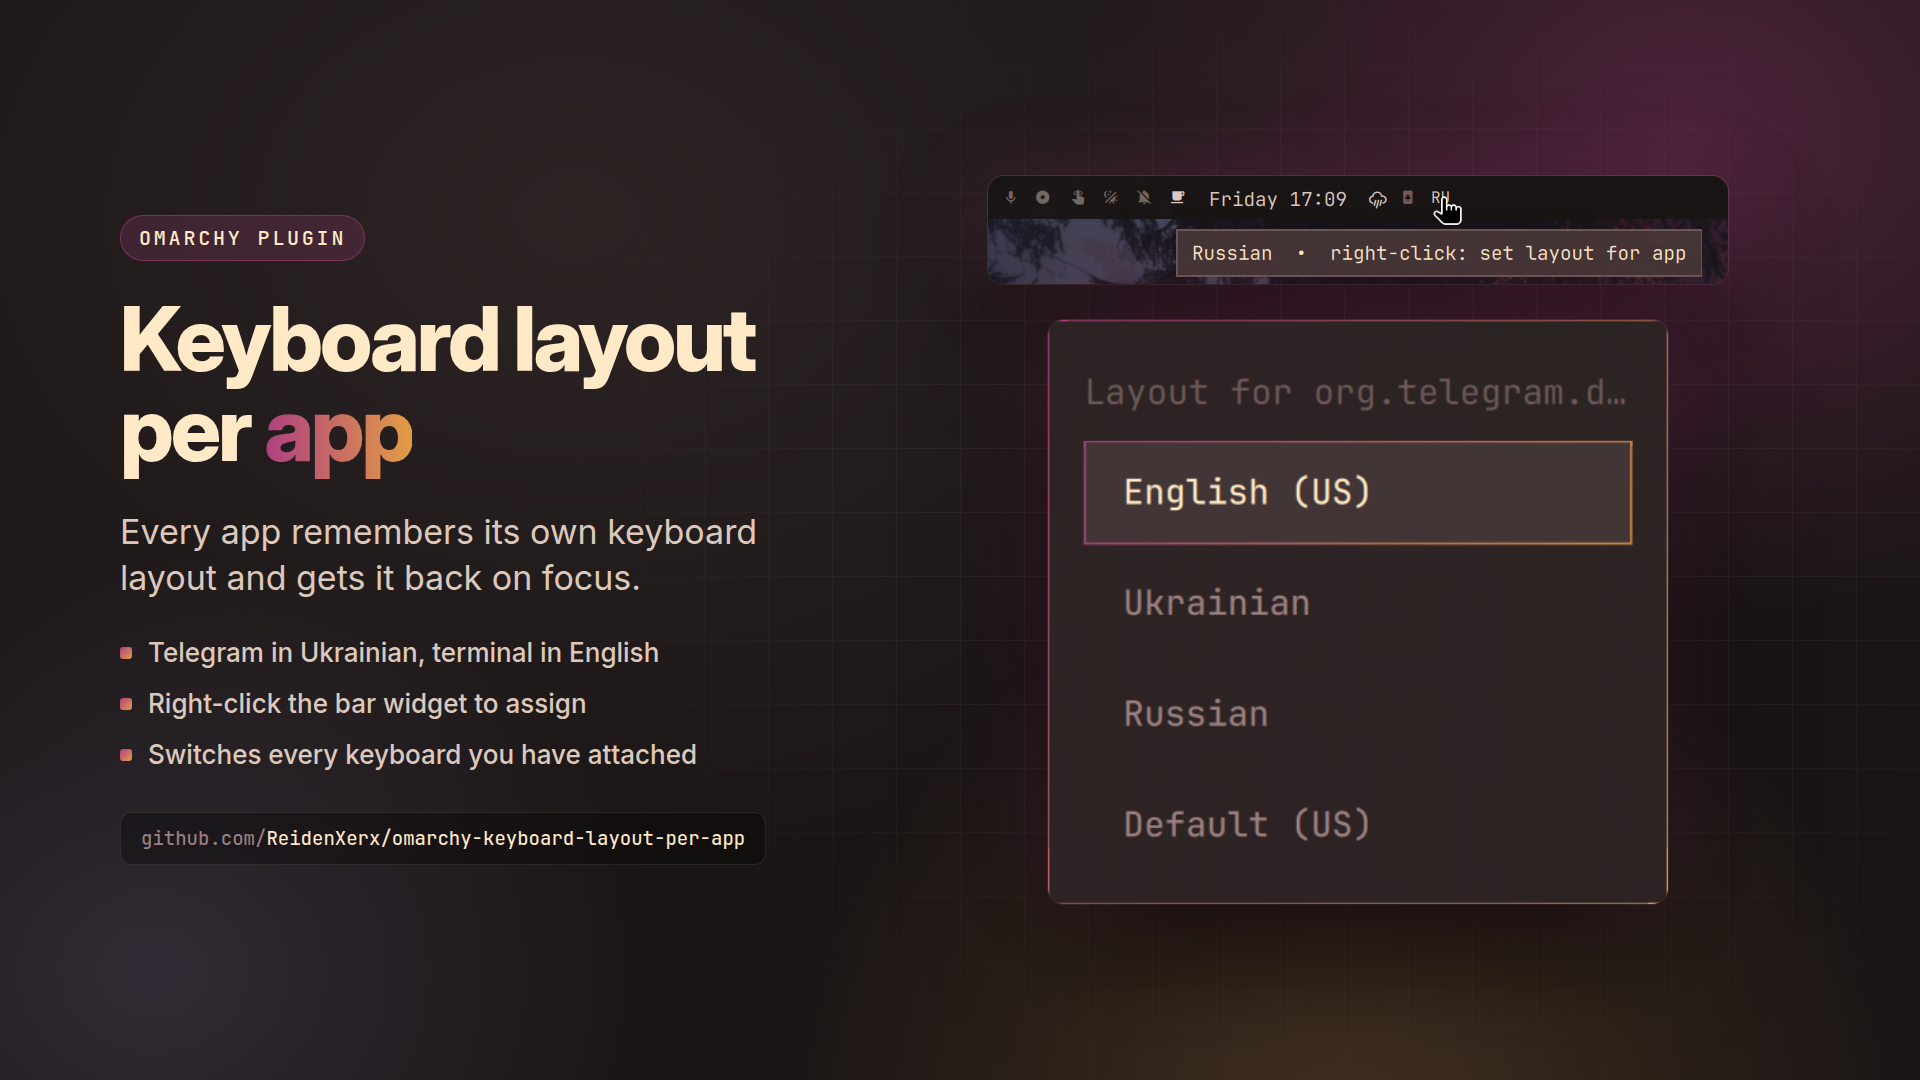
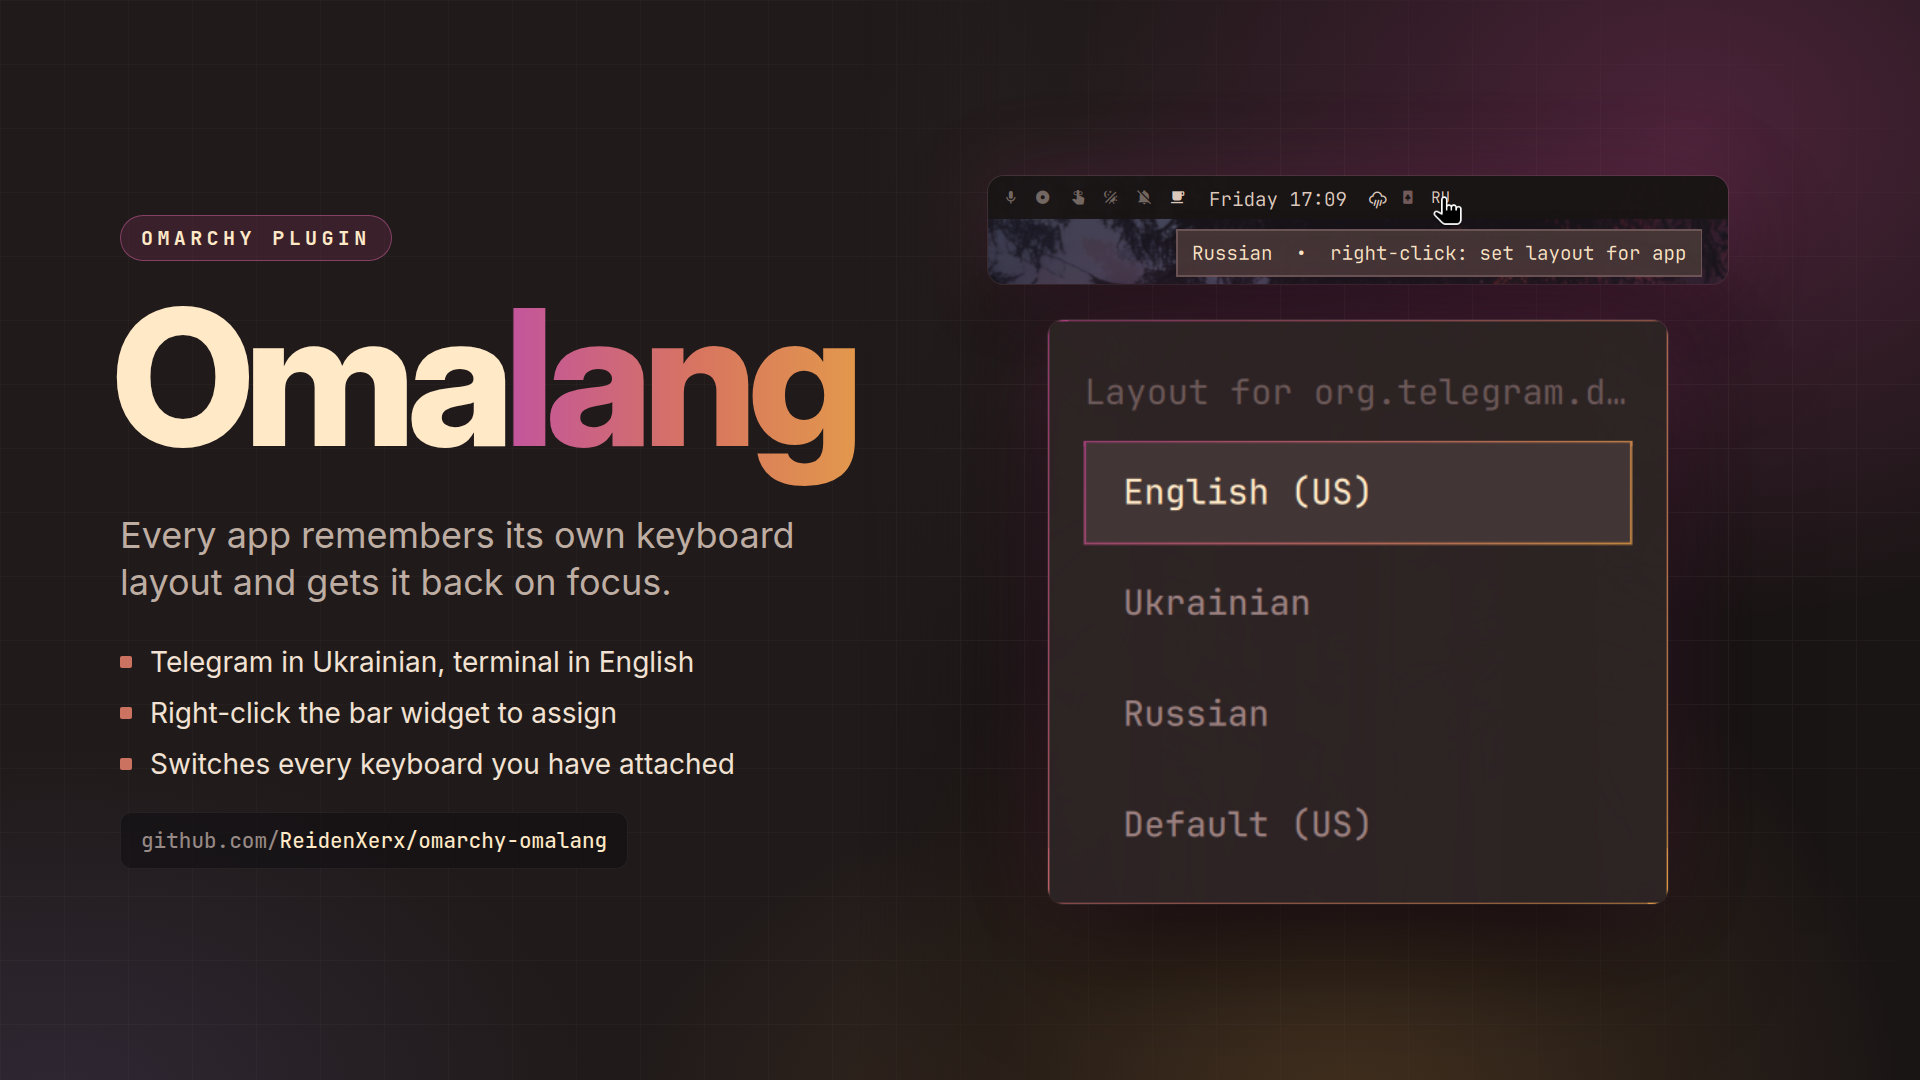
Rename to Omalang
The plugin is called Omalang now: its name, bar widget name, Omarchy menu label, README and
preview say so, and the repository moves to github.com/ReidenXerx/omarchy-omalang (GitHub
redirects the old URL). The plugin id stays reidenxerx.keyboard-layout-per-app, so installed
copies keep updating in place and the marketplace listing carries over. Version 1.2.0.

Claude-Session: https://claude.ai/code/session_019yo64P8KJNrR6aGx5oYCTz

diff --git a/README.md b/README.md
@@ -1,9 +1,10 @@
-# Keyboard layout per app
+# Omalang
 
-![Keyboard layout per app](preview.png)
+![Omalang](preview.png)
 
-An [Omarchy](https://omarchy.org) bar widget that remembers the **keyboard layout per
-application** and restores it when you focus that app.
+Omalang is an [Omarchy](https://omarchy.org) bar widget that remembers the **keyboard layout
+per application** and restores it when you focus that app. It used to be called "Keyboard
+layout per app".
 
 Type Ukrainian in Telegram and English in your terminal, and stop switching by hand. KDE and
 Windows both behave this way; Hyprland has a single global layout, so this supplies the
@@ -14,8 +15,12 @@ memory.
 ## Install
 
 ```bash
-omarchy plugin add https://github.com/ReidenXerx/omarchy-keyboard-layout-per-app.git --enable
+omarchy plugin add https://github.com/ReidenXerx/omarchy-omalang.git --enable
 ```
+
+Installed it back when it was "Keyboard layout per app"? `omarchy plugin update` brings it to
+Omalang in place: the plugin id, `reidenxerx.keyboard-layout-per-app`, did not change, and the
+old repository URL redirects here.
 
 Requires more than one layout in `kb_layout` — the widget hides itself otherwise:
 
@@ -128,8 +133,8 @@ Tests: `python3 tests/helpers_test.py`, `python3 tests/memory_test.py` and
 ## Credits
 
 `KeyboardLayoutModel.js` and the widget's layout-querying logic come from Omarchy's built-in
-`omarchy.keyboard-layout` widget by David Heinemeier Hansson, MIT licensed. This plugin adds
-the per-application memory, the picker, and the daemon.
+`omarchy.keyboard-layout` widget by David Heinemeier Hansson, MIT licensed. Omalang adds the
+per-application memory, the picker, and the daemon.
 
 ## Menu entries
 
@@ -148,7 +153,7 @@ file unparseable.
 
 ```bash
 bin/kb-layout-menu-install remove
-omarchy plugin remove reidenxerx.keyboard-layout-per-app
+omarchy plugin remove reidenxerx.keyboard-layout-per-app   # Omalang's plugin id
 ```
 
 Assignments stay in `~/.config/omarchy/kb-layout-per-app.json`; delete it to forget them.
